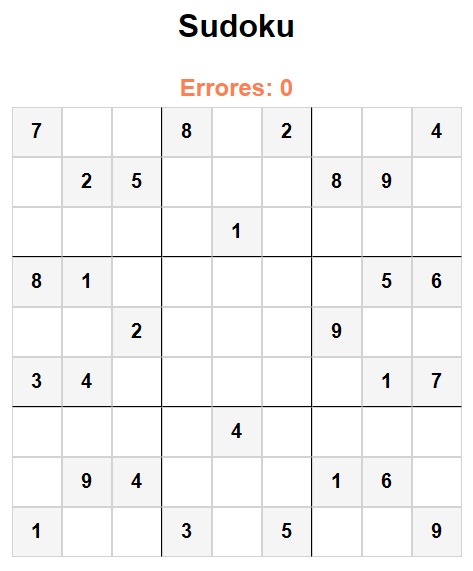
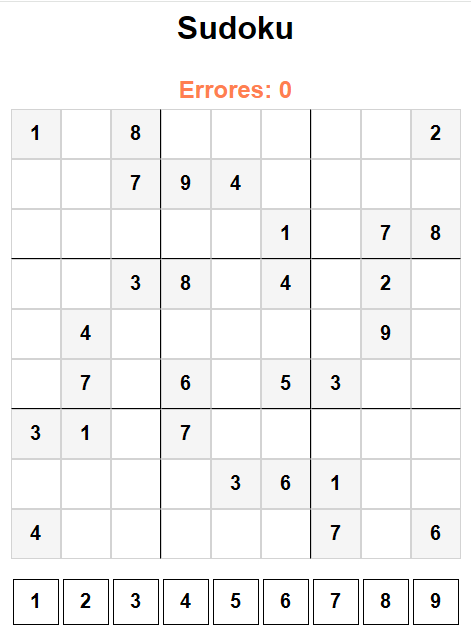
Feat: sudoku-javascript. 20250629
- 20250629

#20250629

diff --git a/board.js b/board.js
@@ -56,7 +56,9 @@ const board = [
   ['-----5---', '--7-1396-', '-1---6-42', '--6-----3', '7-------9',
     '5-----2--', '47-2---1-', '-6384-7--', '---5-----'], 
   ['7--8-2--4', '-25---89-', '----1----', '81-----56', '--2---9--',
-    '34-----17', '----4----', '-94---16-', '1--3-5--9'] 
+    '34-----17', '----4----', '-94---16-', '1--3-5--9'],
+  ['1-8-----2', '--794----', '-----1-78', '--38-4-2-', '-4-----9-',
+    '-7-6-53--', '31-7-----', '----361--', '4-----7-6'] 
 ];
 
 export default function getBoard (WHICH) {

diff --git a/sudoku.js b/sudoku.js
@@ -10,7 +10,7 @@ let posExample = '';
 
 let errors = 0;
 
-const WHICH = 28;
+const WHICH = 29;
 
 let board = [];
 let solution = [];
